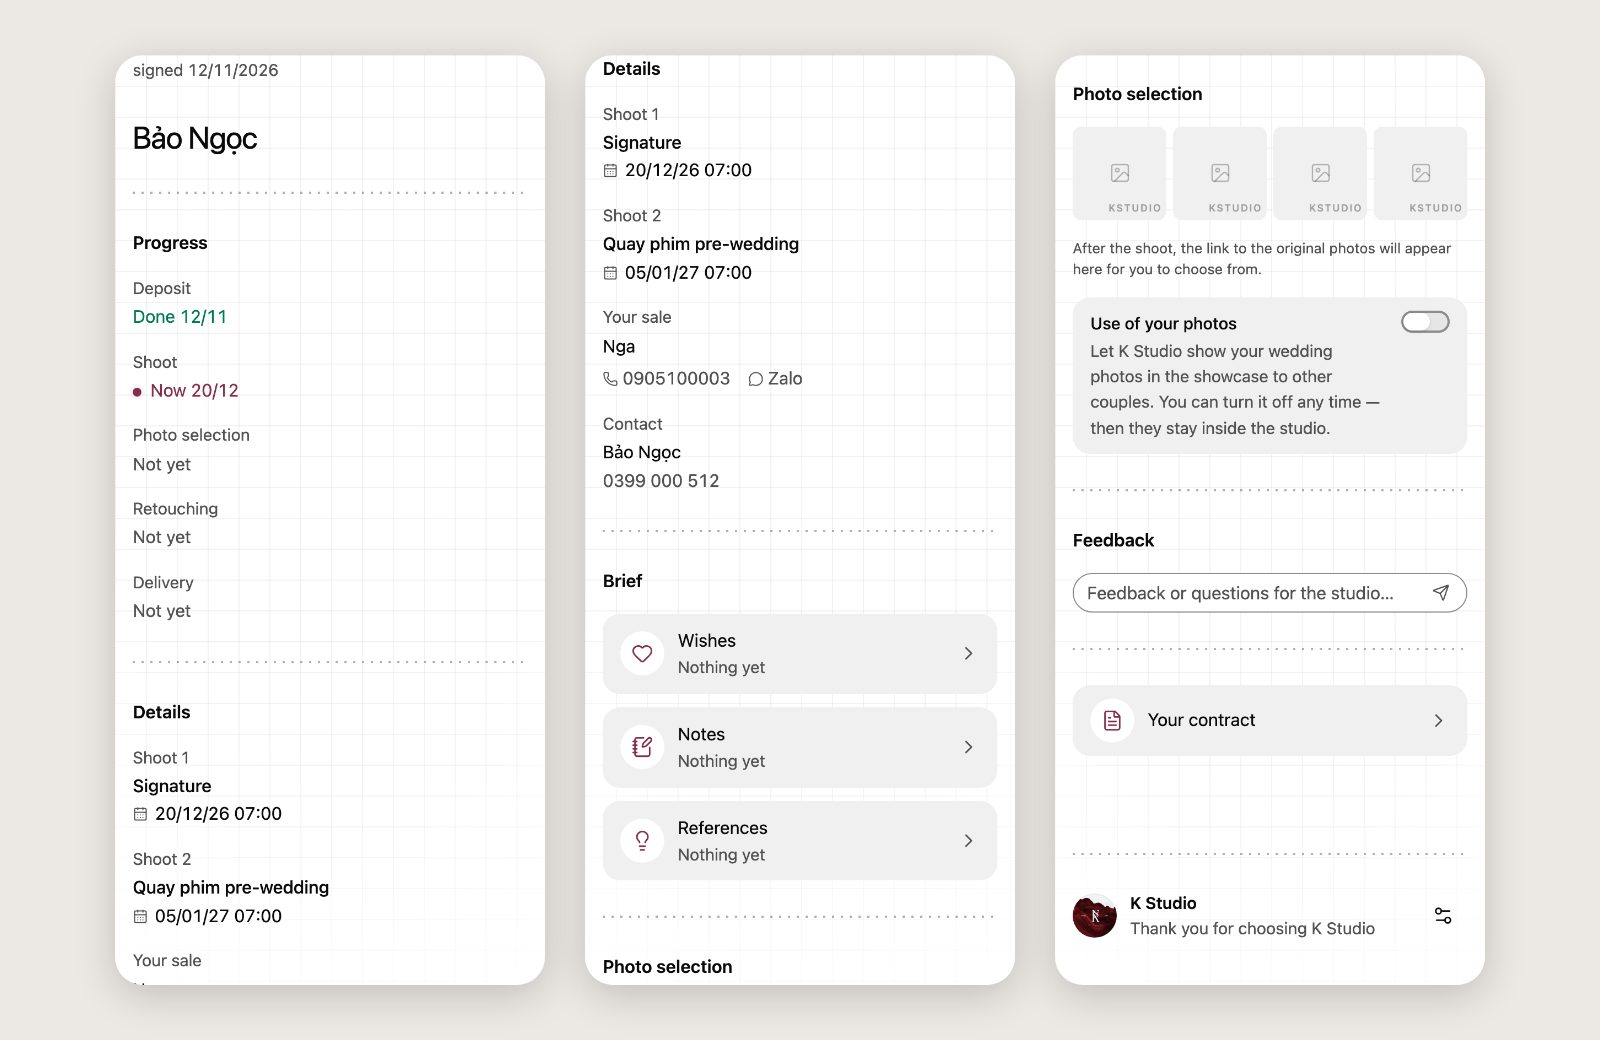
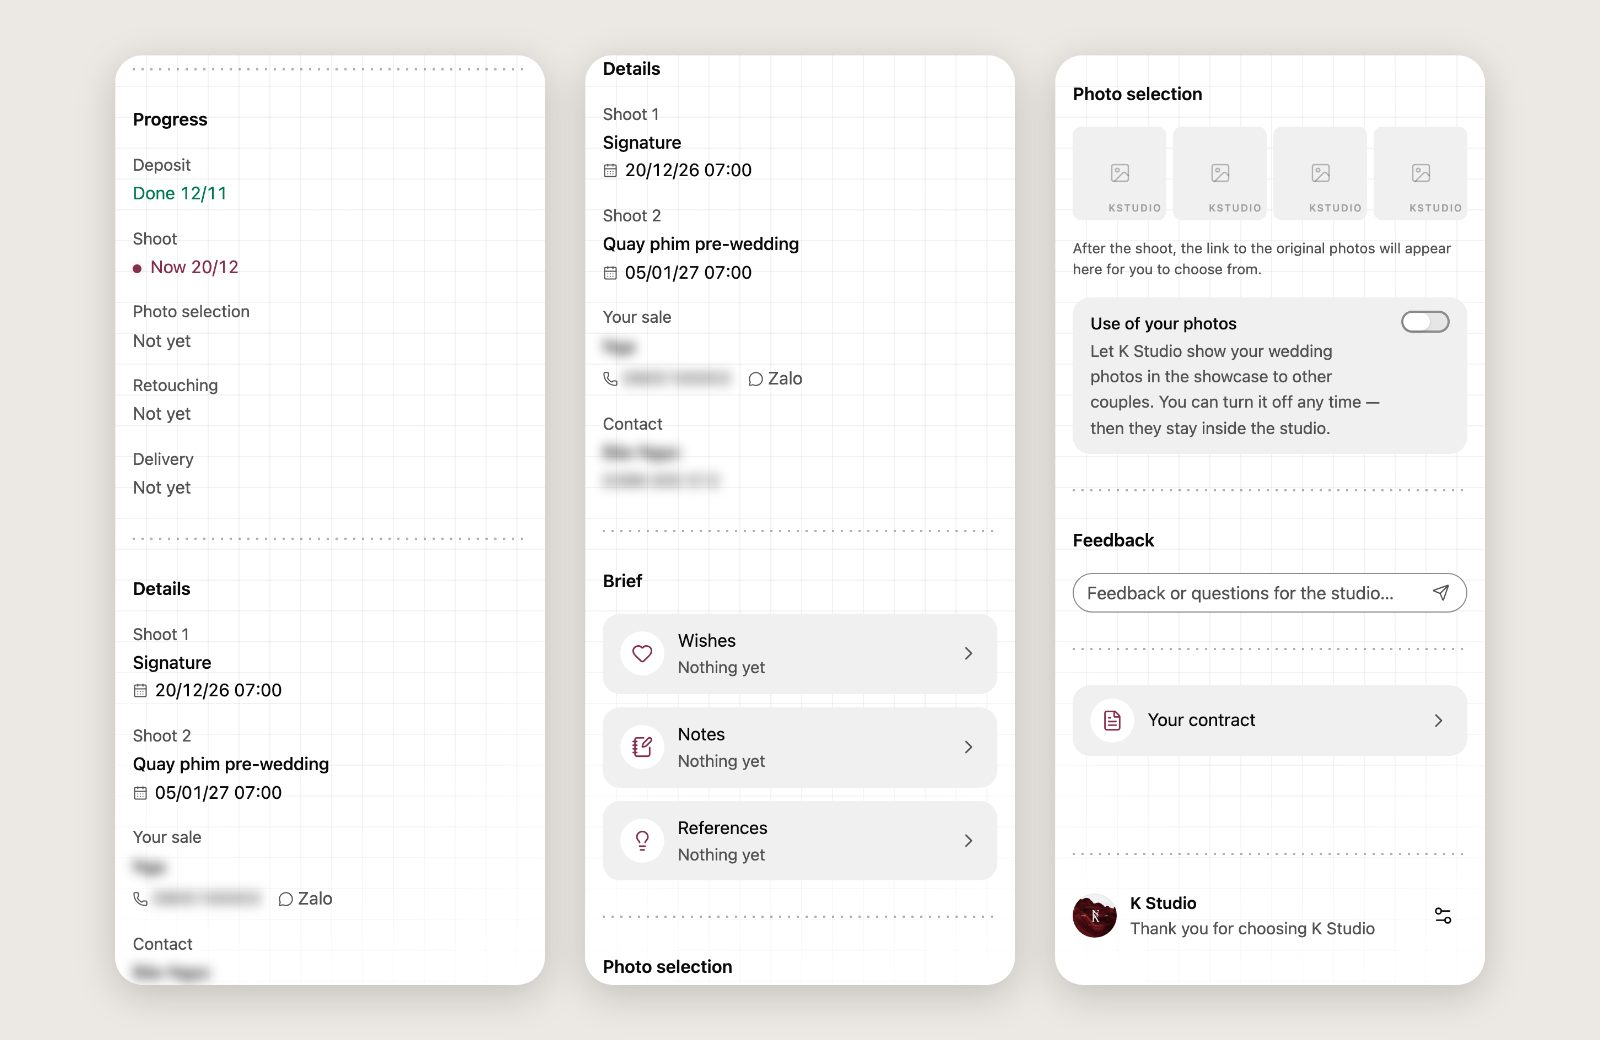
K-Studio post: landing page, album review, hand-drawn wireframes; no demo link on the CV

diff --git a/content/blog/k-studio.md b/content/blog/k-studio.md
@@ -10,9 +10,9 @@ stack: Next.js (App Router), React 19, TypeScript, Postgres on Neon, Kysely, bet
 
 K-Studio is a wedding photo studio in Nha Trang with about 20 people. Before this project it ran on three things kept by hand: an Excel cash book, a shoot schedule in a Zalo chat, and a payroll sheet computed at the end of each period. I replaced all three with one web app that the studio now uses every day. It went from first commit to daily use in about 10 weeks, with an AI agent (Claude Code) writing most of the lines.
 
-It has two sides: an internal app for the staff, and a portal for each couple. The internal app is behind sign-in, so there is nothing public to open. The screens below stand in for it, and every one shows invented data.
+It has three parts: a public landing page, an internal app for the staff, and a portal for each couple. The internal app is behind sign-in, so there is nothing public to open. The screens below stand in for it; they show invented data, and anything that could name a person is blurred.
 
-![The K-Studio sign-in page: the studio's mark, fields for email or phone and a password, and switches for Vietnamese or English and for the light or dark theme.](/blog/k-studio/sign-in-1600x700.jpg "The front door. Staff sign in with an email or phone number; language and theme can be changed before signing in.")
+![The K-Studio landing page: the studio's name over three wedding photographs, with buttons to book a consultation and see the portfolio, and a choice of four languages.](/blog/k-studio/landing-1600x1000.jpg "The public landing page at k-studio.photo, in Vietnamese, English, Russian and Korean.")
 
 ## In numbers
 
@@ -45,12 +45,18 @@ Each couple gets a private link, with no account to create. It shows where their
 
 ![Three phone screens of the couple's portal: the progress of the contract from deposit to delivery, the shoot days and the studio contact with a brief to fill in, and the photo selection with a consent switch and a feedback box.](/blog/k-studio/portal-1600x1040.jpg "The couple's portal on a phone: progress, details and brief, then photo selection and feedback.")
 
-The photo proofing gallery stores its files on Cloudflare R2 and replaced a paid SaaS.
+### Album review
+
+After the shoot the couple opens their album from the same link. They heart the photos they like, tick the ones included in their package until the count is full, and seal the pick. The studio retouches those and sends them back as numbered rounds; the couple writes notes on any photo, the studio answers, and the next round follows. It replaced a paid proofing service, and the files are stored on Cloudflare R2.
+
+![The couple's album while picking: a wall of photographs, some marked with a heart or a tick, a counter reading 12 of 20, and a button to seal the picks.](/blog/k-studio/gallery-pick-1600x1000.jpg "Picking. Hearts are favourites, ticks count against the package, and the pick is sealed once. The photographs are blurred here.")
+
+![The first round of retouched photos: a wall of photographs, three of them carrying a count of notes, with a link to Google Drive and a button to send the notes.](/blog/k-studio/gallery-edited-1600x1000.jpg "Round 1 of the retouched photos, with the couple's notes counted on each one.")
 
 ## How it was built
 
 1. **Business first.** I talked to the owner and read what the studio already used: the real payroll sheet, cash book and price list. That gave a short scope (four lines of business, the life of one contract, twelve areas to build) and a glossary. In this studio *show* means a paid shoot and *chốt sổ* means closing the day's cash book; pinning those words down stopped a whole class of plausible-looking mistakes, by me and by the agent.
-2. **The wireframe was a working prototype.** With an agent, a clickable prototype costs about what a drawing used to. The first commit was the real screens on invented data, at an address the owner could open on his own phone. A week later he clicked through one whole wedding and came back with eleven asks, all before the real backend was built.
+2. **Hand-drawn wireframes, then a working prototype.** The wireframes were drawings by hand, made with the studio to agree on the idea and nothing more. With an agent a clickable prototype is cheap, so the first commit was the real screens on invented data, at an address the owner could open on his own phone. A week later he clicked through one whole wedding and came back with eleven asks, all before the real backend was built.
 3. **Then the real system, under the screens he had agreed.** The prototype kept honest in-memory state, so the first database was a transcription, not a design. Every business rule became a pure function with a unit test; repositories come in an in-memory kind for fast tests and a Postgres kind tested against a real database; server actions decide nothing.
 
 ## The loop that keeps speed from costing quality

diff --git a/CLAUDE.md b/CLAUDE.md
@@ -51,13 +51,18 @@ Stack: Next.js 16 App Router, React 19, plain CSS, `marked`, Bun. No database, n
   becomes a `<figure>`; the size in the file NAME becomes width/height (no layout shift), so
   keep that naming. Files live in `public/blog/<slug>/`.
 - The `k-studio` post (rewritten 2026-11-17, modelled on tungv.com's Billy J archive) tells the
-  two sides by picture (the internal app, the couple's portal), opening on the sign-in page
-  because the internal app is behind sign-in and has no public address, then how it was built,
+  three parts by picture: the public landing page (www.k-studio.photo, repo
+  `~/github.com/k-studio-landing`), the internal app (behind sign-in, no public address) and
+  the couple's portal with the album review; then how it was built (hand-drawn wireframes with
+  the studio, then a prototype),
   the loop, and lessons. The portal shots are contract KS112026-0019 on dev (NOT 0004, whose
   contact phone is Vinh's own). Its facts come
   from k-studio's `__project__/docs/retro.md`, `scope.md`, `ui-review.md` and the specs. Its
   screenshots are from the DEV-DEMO data (invented), in English, never from the local database
-  (which holds real imported albums and couples). Left out on purpose: the studio's letterhead
+  (which holds real imported albums and couples). Names, phones and contract codes on the portal are blurred, and so
+  are the album's photographs (`/gallery-lab` scenarios 2 and 6, `img { filter: blur(9px) }`):
+  they are a real couple's photos, and Vinh asked for sensitive data to be blurred. Left out
+  on purpose: the studio's letterhead
   (address, phone, email), pay figures next to staff names, and couples' photos. To retake:
   in `~/github.com/k-studio`,
   `BETTER_AUTH_URL=http://localhost:3200 APP_URL=http://localhost:3200 bun --env-file=.env.dev.local x next dev -p 3200`,
@@ -85,7 +90,7 @@ All dated 2026-11-16.
   he has not claimed.
 - **No link to the K-Studio demo in the blog posts** (2026-11-17): "just a topic and photos are
   enough to explain". The post has screenshots instead. Do not add the link back. The CV's
-  K-Studio bullet still has a "Live demo" link; Vinh has not yet said whether that one goes too.
+  "Live demo" link was removed too ("yes remove all link").
 - **No Bảo Minh case-study page.** He dropped it (too like K-Studio, and K-Studio is the better
   one). It lives only as a bullet on the CV. Do not re-create it.
 - **Menu and close buttons are bare icons**, "like Apple": no ring, no fill. The round area is

diff --git a/content/resume.md b/content/resume.md
@@ -30,7 +30,7 @@ I lead teams and mentor developers, and care about testing, developer experience
 
 Designed, built and ran production web apps for two businesses, solo and end to end: requirements, architecture, deploy and support.
 
-- **[K-Studio · Sep 2026 – present]** Shipped in about 10 weeks with Claude Code: an operations platform for a ~20-person wedding photo studio, replacing its Excel cash book, Zalo shoot schedule and hand-computed payroll. Next.js (App Router), TypeScript and Postgres (Neon) on Vercel, used daily by admins, sales, photographers and couples. [Case study](/blog/k-studio) · [Live demo](https://k-studio-git-dev-vinhnguyen-projects.vercel.app)
+- **[K-Studio · Sep 2026 – present]** Shipped in about 10 weeks with Claude Code: an operations platform for a ~20-person wedding photo studio, replacing its Excel cash book, Zalo shoot schedule and hand-computed payroll. Next.js (App Router), TypeScript and Postgres (Neon) on Vercel, used daily by admins, sales, photographers and couples. [Case study](/blog/k-studio)
 - **[K-Studio]** Modelled the money rules as pure, unit-tested domain functions: cash and bank books, instalments, crew pay and frozen payroll periods. Each design decision is recorded as an ADR.
 - **[K-Studio]** Built a photo-proofing gallery on Cloudflare R2 that replaced a paid SaaS, plus server-rendered PDF contracts, role-based access and a bilingual Vietnamese/English UI. AI-written code is gated by type-aware lint, Vitest and a Playwright suite that screenshots every page in both themes.
 - **[Bảo Minh Gia Định · Jun 2025 – Apr 2026]** Built the insurance sales portal used by about 50 sales staff and their customers to sell and manage insurance contracts, in Next.js, TypeScript and Postgres. Ran it in production until the parent company moved its subsidiaries onto a group-wide platform.
